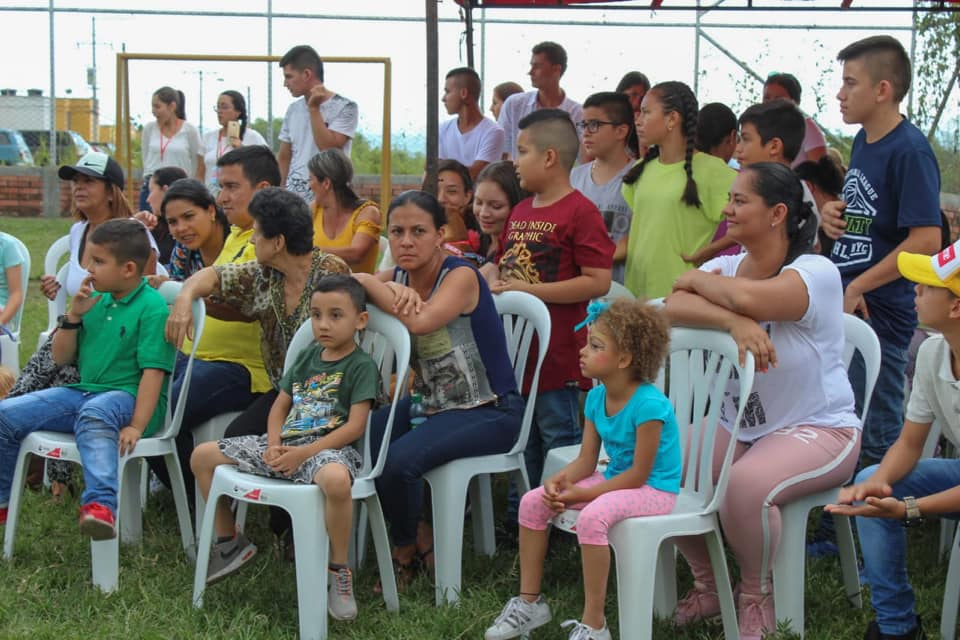
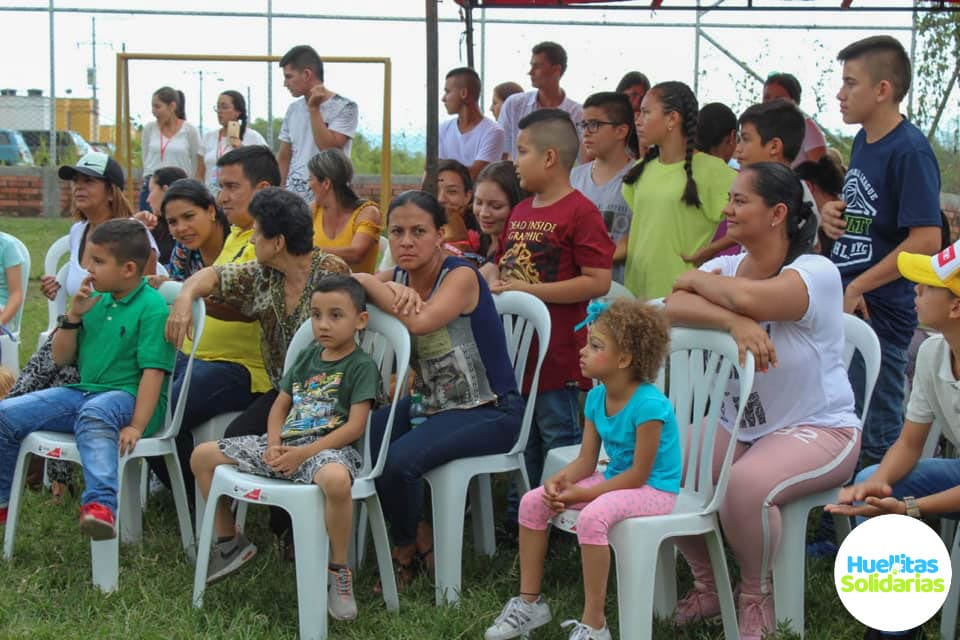
Lazy Loading
Se implementó lazy loading en la página prinicipal y se agregaron fotos editadas con la marca de agua en el barrio comfenalco

Changed region(s): [[0.8438, 0.7812, 1.0, 1.0]]

diff --git a/src/app/public/home/components/achievements/achievements.component.html b/src/app/public/home/components/achievements/achievements.component.html
@@ -1,5 +1,5 @@
 <header class="header">
-    <img class="transform-turn" src="assets/img/cuts/cut-header.svg" alt="Cut">
+    <img loading="lazy" class="transform-turn" src="assets/img/cuts/cut-header.svg" alt="Cut">
     <div class="container vh-60">
     <div class="text-center">
         <h1 class="subscriber-titulo text-uppercase text-md-center text-white" data-aos="zoom-in-down" data-aos-duration="3000">Logros</h1>
@@ -9,7 +9,7 @@
 
         <div class="d-flex col-12 col-lg-4 col-md-6 justify-content-center mt-5">
             <div class="card" data-aos="zoom-in-up" data-aos-duration="2000">
-                <img src="assets/img/home/achievements/1.jpg" >
+                <img loading="lazy" src="assets/img/home/achievements/1.jpg" >
             <div class="con-text">
                 <h3 class="montserrat-titulo">Alcance</h3>
                 <p class="comfortaa-texto">Nuestros eventos han llegado a 7 municipios del departamento del
@@ -20,7 +20,7 @@
 
         <div class="d-flex col-12 col-lg-4 col-md-6 justify-content-center mt-5">
             <div class="card" data-aos="zoom-in-up" data-aos-duration="2000">
-                <img src="assets/img/home/achievements/2.jpg" >
+                <img loading="lazy" src="assets/img/home/achievements/2.jpg" >
             <div class="con-text">
                 <h3 class="montserrat-titulo">Trabajo Social</h3>
                 <p class="comfortaa-texto">En nuestros eventos recolectamos cuido en ciertos lugares y lo donamos, así como damos 
@@ -31,7 +31,7 @@
 
         <div class="d-flex col-12 col-lg-4 col-md-6 justify-content-center mt-5">
             <div class="card" data-aos="zoom-in-up" data-aos-duration="2000">
-                <img src="assets/img/home/achievements/3.jpg" >
+                <img loading="lazy" src="assets/img/home/achievements/3.jpg" >
             <div class="con-text">
                 <h3 class="montserrat-titulo">Liderazgo</h3>
                 <p class="comfortaa-texto">Huellitas Solidarias ha permitido el desarrollo de diferentes
@@ -42,5 +42,5 @@
         </div>
     </div>
     </div>
-    <img src="assets/img/cuts/cut-header.svg" alt="Cut" data-aos="fade-up" data-aos-duration="2000">
+    <img loading="lazy" src="assets/img/cuts/cut-header.svg" alt="Cut" data-aos="fade-up" data-aos-duration="2000">
 </header>

diff --git a/src/app/public/home/components/our-events/our-events.component.html b/src/app/public/home/components/our-events/our-events.component.html
@@ -1,5 +1,5 @@
 <header class="header">
-    <img class="transform-turn" src="assets/img/cuts/cut-header.svg" alt="Cut">
+    <img loading="lazy" class="transform-turn" src="assets/img/cuts/cut-header.svg" alt="Cut">
     <div class="container vh-60">
     <div class="text-center">
         <h1 class="subscriber-titulo text-uppercase text-md-center text-white" data-aos="zoom-in" data-aos-duration="3000">Eventos Generales</h1>
@@ -9,7 +9,7 @@
 
         <div class="d-flex col-12 col-lg-4 col-md-6 justify-content-center mt-5">
             <div class="card" data-aos="zoom-in-up" data-aos-duration="2000">
-                <img src="assets/videos/our-events/1.gif" >
+                <img loading="lazy" src="assets/videos/our-events/1.gif" >
             <div class="con-text">
                 <h3 class="montserrat-titulo">Circuito Canino</h3>
                 <p class="comfortaa-texto">Este concurso se basa en que el perro y su dueño
@@ -22,7 +22,7 @@
 
         <div class="d-flex col-12 col-lg-4 col-md-6 justify-content-center mt-5">
             <div class="card" data-aos="zoom-in-up" data-aos-duration="2000">
-                <img src="assets/videos/our-events/2.gif">
+                <img loading="lazy" src="assets/videos/our-events/2.gif">
             <div class="con-text">
                 <h3 class="montserrat-titulo">Pasarela Canina</h3>
                 <p class="comfortaa-texto">En este concurso la mascota y su dueño se convertirán en un
@@ -35,7 +35,7 @@
 
         <div class="d-flex col-12 col-lg-4 col-md-6 justify-content-center mt-5">
             <div class="card" data-aos="zoom-in-up" data-aos-duration="2000">
-                <img src="assets/videos/our-events/3.gif">
+                <img loading="lazy" src="assets/videos/our-events/3.gif">
             <div class="con-text">
                 <h3 class="montserrat-titulo">Recreación</h3>
                 <p class="comfortaa-texto">Esta sección precede a la premiación de nuestros ganadores.
@@ -46,5 +46,5 @@
         </div>
     </div>
     </div>
-    <img src="assets/img/cuts/cut-header.svg" alt="Cut" data-aos="fade-up" data-aos-duration="2000">
+    <img loading="lazy" src="assets/img/cuts/cut-header.svg" alt="Cut" data-aos="fade-up" data-aos-duration="2000">
 </header>

diff --git a/src/app/public/home/components/about-us/about-us.component.html b/src/app/public/home/components/about-us/about-us.component.html
@@ -4,7 +4,7 @@
     </div>
     <div class="row">
         <div class="col-lg-6">
-            <img src="assets/img/home/about-us/about-us.jpg" data-aos="fade-up" data-aos-duration="3000" alt="About Us" class="img">
+            <img loading="lazy" src="assets/img/home/about-us/about-us.jpg" data-aos="fade-up" data-aos-duration="3000" alt="About Us" class="img">
         </div>
         <div class="col-lg-6 mt-5 montserrat-texto" data-aos="fade-down" data-aos-duration="3000">
             <p> Con la finalidad de promover el bienestar y cuidado animal en el departamento del Quindío,

diff --git a/src/app/events/components/gallery-lightbox/gallery-lightbox.component.html b/src/app/events/components/gallery-lightbox/gallery-lightbox.component.html
@@ -3,7 +3,7 @@
     <h3 class="mb-5 mt-0 comfortaa-subtitulo text-uppercase">{{ subtitle }}</h3>
     <div class="gallery">
         <div *ngFor="let data of galleryData; let i=index" class="gallery-img">
-            <img (click)="onPreviewImage(i)" data-aos="zoom-in" data-aos-duration="3000" [src]="data.imageSrc" [alt]="data.imageAlt">
+            <img loading="lazy" (click)="onPreviewImage(i)" data-aos="zoom-in" data-aos-duration="3000" [src]="data.imageSrc" [alt]="data.imageAlt">
         </div>
     </div>
     <div *ngIf="showMask" class="lightbox" @animation2>

diff --git a/src/app/public/home/components/header/header.component.html b/src/app/public/home/components/header/header.component.html
@@ -8,7 +8,7 @@
                     
                 </div>
                 <div class="col-md-4 col-lg-6 d-none d-md-block text-center mt-md-5 mt-lg-0"  data-aos="zoom-in" data-aos-duration="2000">
-                    <img class="logo" src="assets/img/logos/huellitas-solidarias-circulo.png" alt="Logo HS">
+                    <img loading="lazy" class="logo" src="assets/img/logos/huellitas-solidarias-circulo.png" alt="Logo HS">
                 </div>
             </div>
         </div>

diff --git a/src/app/public/home/components/carousel/carousel.component.html b/src/app/public/home/components/carousel/carousel.component.html
@@ -4,7 +4,7 @@
     data-aos-duration="3000">{{ text }}</h1>
 </div>
 <div *ngIf="images && images.length > 0" class="carousel-container" data-aos="zoom-in" data-aos-duration="3000">
-    <img *ngFor="let image of images; let i=index"
+    <img loading="lazy" *ngFor="let image of images; let i=index"
              [src]="image.imageSrc" [alt]="image.imageAlt"
              [ngClass]="{'image-active': selectedIndex === i}"
              >

diff --git a/src/app/events/containers/armenia/comuna1/ciudadela-comfenalco/ciudadela-comfenalco.component.ts b/src/app/events/containers/armenia/comuna1/ciudadela-comfenalco/ciudadela-comfenalco.component.ts
@@ -89,13 +89,5 @@ export class CiudadelaComfenalcoComponent implements OnInit {
       imageSrc: "assets/img/events/armenia/comuna1/ciudadela-comfenalco/18.jpg",
       imageAlt: "18"
     },
-    {
-      imageSrc: "assets/img/events/armenia/comuna1/ciudadela-comfenalco/19.jpg",
-      imageAlt: "19"
-    },
-    {
-      imageSrc: "assets/img/events/armenia/comuna1/ciudadela-comfenalco/20.jpg",
-      imageAlt: "20"
-    }
   ]
 }

diff --git a/src/app/public/about-us/container/about-us/about-us-container.component.html b/src/app/public/about-us/container/about-us/about-us-container.component.html
@@ -1,5 +1,5 @@
 <app-navbar></app-navbar>
-<br><br><br><br><br><br>
+<br><br><br><br>
 <app-our-history></app-our-history>
 <br><br><br><br><br><br>
 <app-footer></app-footer>
